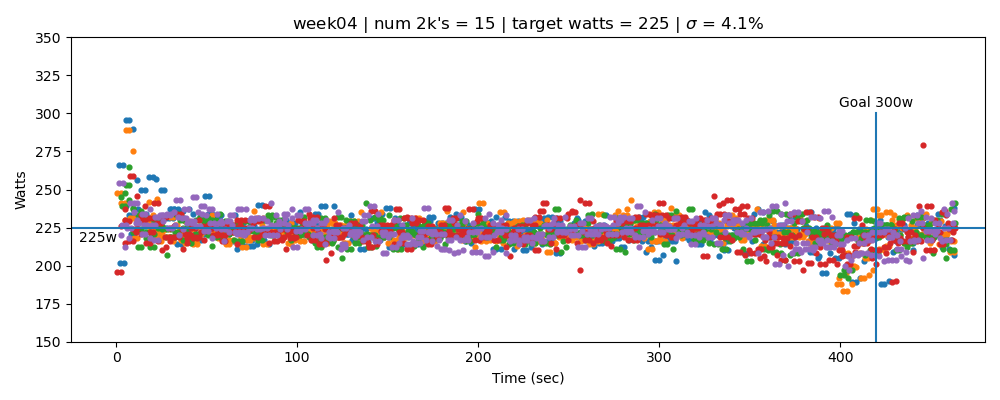
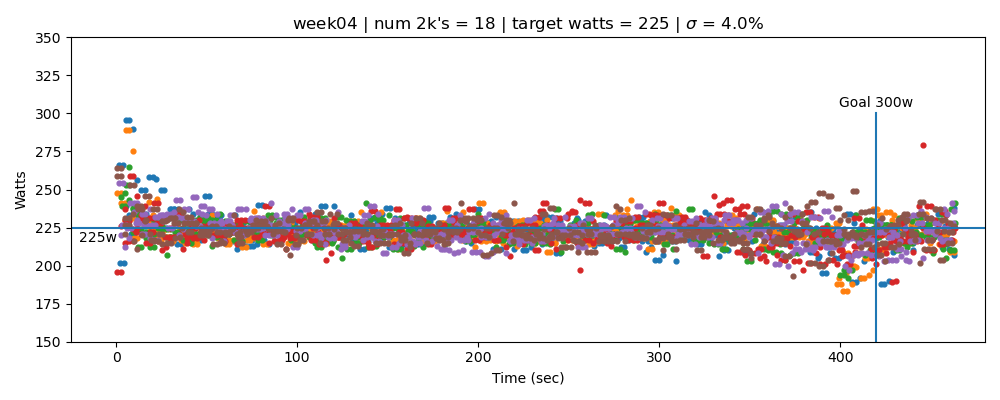
updated data

diff --git a/plot_week.py b/plot_week.py
@@ -13,6 +13,17 @@ def stats(w):
     print(f' mean = {mean:6.1f} std = {std:6.1f} percent = {p:6.1f} %')
     return mean, std, p
 
+if '--total' in sys.argv:
+    dirs = Path().cwd().glob('week*')
+    sum = 0
+    for d in dirs:
+        files = d.glob('*.csv')
+        files = sorted(list(files))
+        nfiles = len(files)
+        sum += nfiles
+        print(f'{d.name} {nfiles:4d} {nfiles*3:4d} {sum:4d} {sum*3:4d}')
+    exit()
+
 week = 1
 if len(sys.argv) > 1:
     week = int(sys.argv[1])

diff --git a/README.md b/README.md
@@ -14,12 +14,13 @@ Not sure what the CRASH-B target is yet. (300/265)x313x0.95 ~ 340 watts? This wo
 
 #### Summary
 
-28 sessions, 84x2k
+29 sessions, 87x2k
 
-##### Week 4: 225 Watts (15x2k)
+##### Week 4: 225 Watts (18x2k)
 
 | Date | Watts |
 | ---- | ----- |
+| 2021-11-13 | 225/225/225 |
 | 2021-11-13 | 225/225/225 |
 | 2021-11-12 | 225/225/225 |
 | 2021-11-12 | 225/225/225 |
